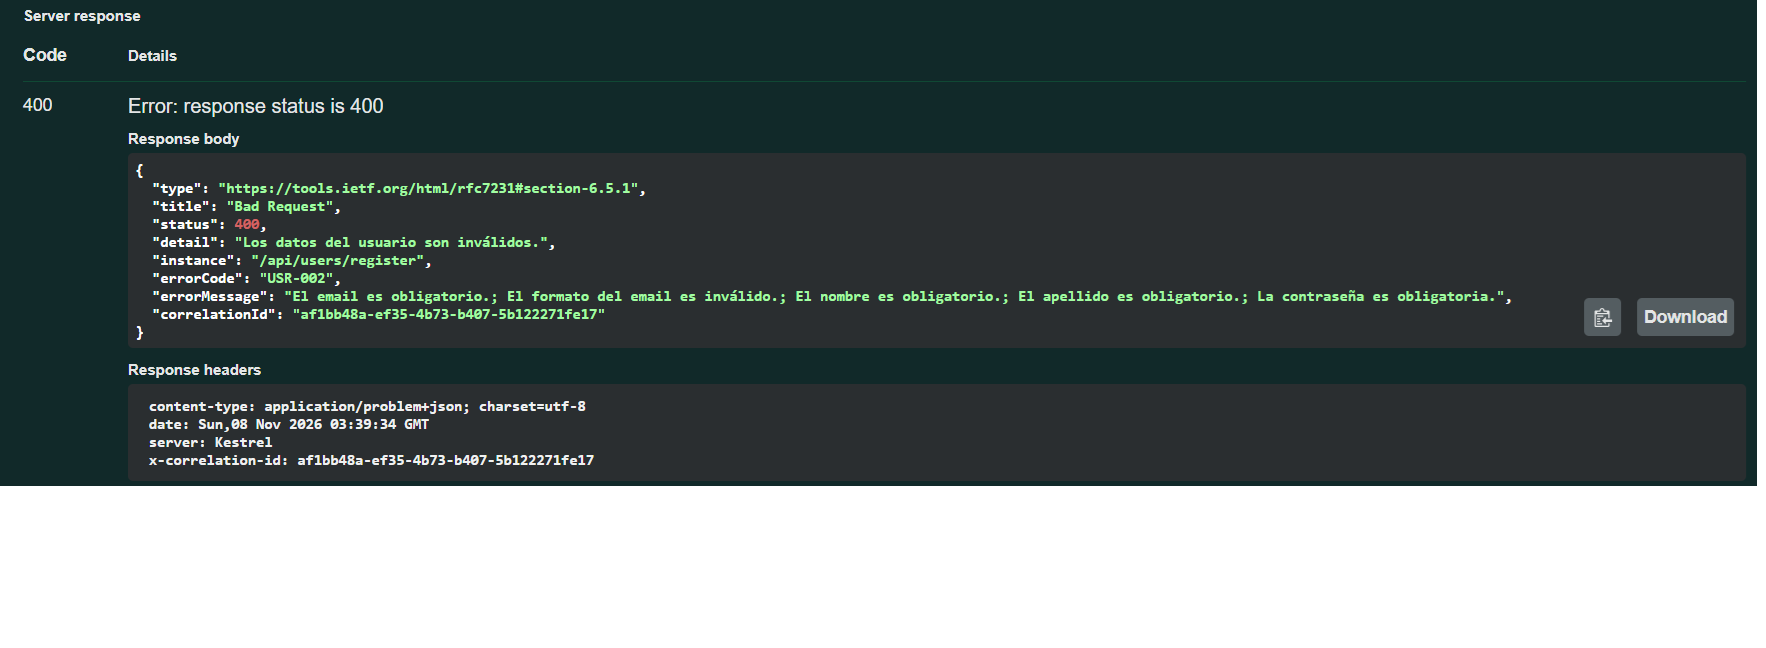
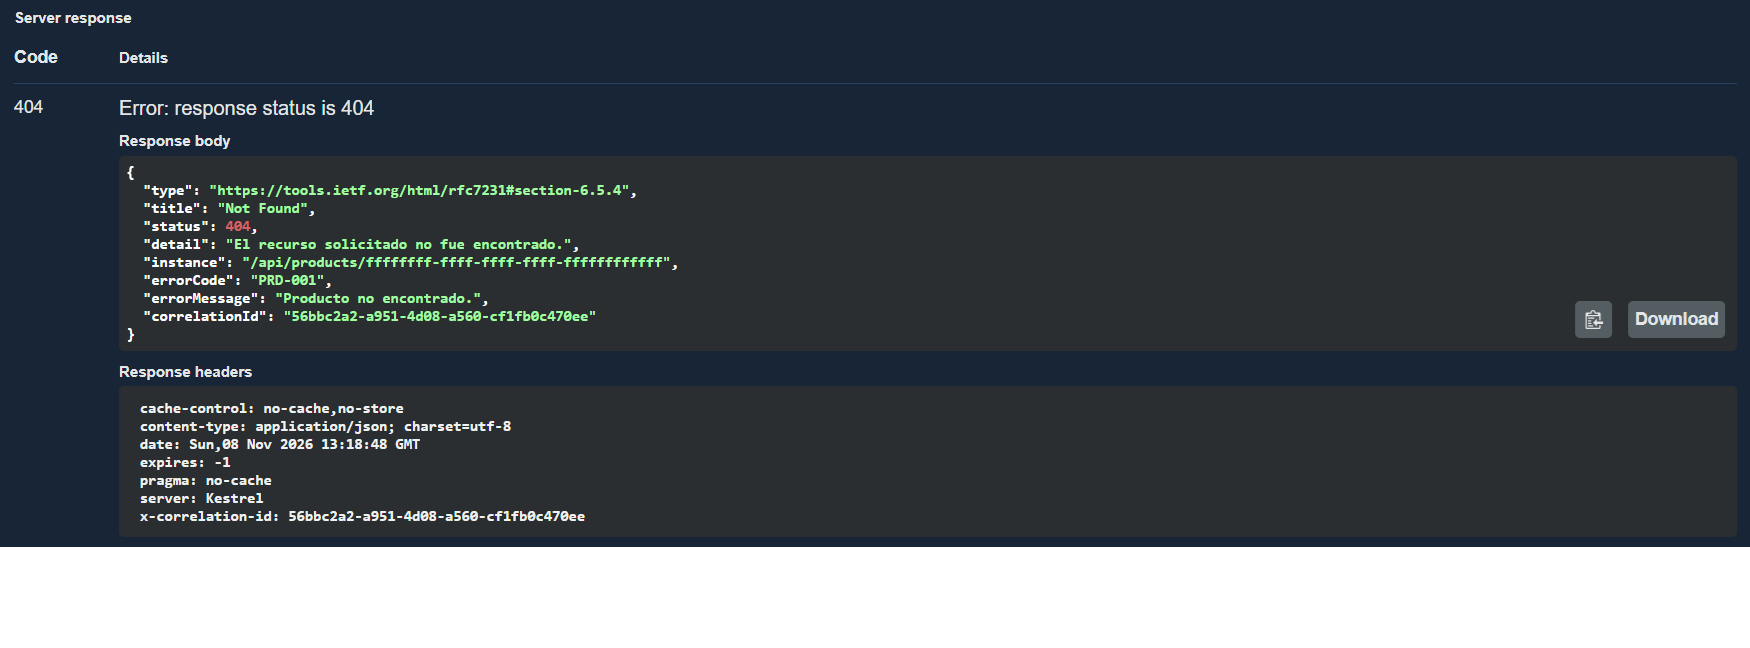
Completo códigos de error en los logs de los microservicios

Changed region(s): [[0.0, 0.0, 1.0, 0.8642], [0.0, 0.0, 0.0926, 0.0926], [0.0, 0.1235, 0.0309, 0.1852]]

diff --git a/ECommerce/Cart.API/ExceptionHandlers/BusinessRuleExceptionHandler.cs b/ECommerce/Cart.API/ExceptionHandlers/BusinessRuleExceptionHandler.cs
@@ -10,17 +10,31 @@ namespace Cart.API.ExceptionHandlers
 {
     public class BusinessRuleExceptionHandler : IExceptionHandler
     {
-        public async ValueTask<bool> TryHandleAsync(HttpContext context, Exception exception, CancellationToken cancellationToken)
+        public async ValueTask<bool> TryHandleAsync(
+            HttpContext context,
+            Exception exception,
+            CancellationToken cancellationToken)
         {
-            if (exception is not BusinessRuleException ex) return false;
+            if (exception is not BusinessRuleException ex)
+            {
+                return false;
+            }
 
-            var correlationId = context.Items["CorrelationId"]?.ToString()
-                                ?? context.Request.Headers["X-Correlation-Id"].ToString();
+            context.Items["ErrorCode"] = ex.ErrorCode;
 
-            Log.Warning("Regla de negocio violada en {Endpoint} | Código: {ErrorCode} | CorrelationId: {CorrelationId} | Detalle: {Message}",
-                context.Request.Path.Value, ex.ErrorCode, correlationId, ex.Message);
+            string correlationId =
+                context.Items["CorrelationId"]?.ToString()
+                ?? context.Request.Headers["X-Correlation-Id"].ToString();
+
+            Log.Warning(
+                "Regla de negocio violada en {Endpoint} | Código: {ErrorCode} | CorrelationId: {CorrelationId} | Detalle: {Message}",
+                context.Request.Path.Value,
+                ex.ErrorCode,
+                correlationId,
+                ex.Message);
 
             context.Response.StatusCode = 422;
+
             await context.Response.WriteAsJsonAsync(new
             {
                 type = "https://tools.ietf.org/html/rfc4918#section-11.2",

diff --git a/ECommerce/Cart.API/ExceptionHandlers/ValidationExceptionHandler.cs b/ECommerce/Cart.API/ExceptionHandlers/ValidationExceptionHandler.cs
@@ -10,17 +10,31 @@ namespace Cart.API.ExceptionHandlers
 {
     public class ValidationExceptionHandler : IExceptionHandler
     {
-        public async ValueTask<bool> TryHandleAsync(HttpContext context, Exception exception, CancellationToken cancellationToken)
+        public async ValueTask<bool> TryHandleAsync(
+            HttpContext context,
+            Exception exception,
+            CancellationToken cancellationToken)
         {
-            if (exception is not ValidationException ex) return false;
+            if (exception is not ValidationException ex)
+            {
+                return false;
+            }
 
-            var correlationId = context.Items["CorrelationId"]?.ToString()
-                                ?? context.Request.Headers["X-Correlation-Id"].ToString();
+            context.Items["ErrorCode"] = ex.ErrorCode;
 
-            Log.Warning("Error de validación en {Endpoint} | Código: {ErrorCode} | CorrelationId: {CorrelationId} | Detalle: {Message}",
-                context.Request.Path.Value, ex.ErrorCode, correlationId, ex.Message);
+            string correlationId =
+                context.Items["CorrelationId"]?.ToString()
+                ?? context.Request.Headers["X-Correlation-Id"].ToString();
+
+            Log.Warning(
+                "Error de validación en {Endpoint} | Código: {ErrorCode} | CorrelationId: {CorrelationId} | Detalle: {Message}",
+                context.Request.Path.Value,
+                ex.ErrorCode,
+                correlationId,
+                ex.Message);
 
             context.Response.StatusCode = 400;
+
             await context.Response.WriteAsJsonAsync(new
             {
                 type = "https://tools.ietf.org/html/rfc7231#section-6.5.1",

diff --git a/ECommerce/Cart.API/ExceptionHandlers/NotFoundExceptionHandler.cs b/ECommerce/Cart.API/ExceptionHandlers/NotFoundExceptionHandler.cs
@@ -10,17 +10,31 @@ namespace Cart.API.ExceptionHandlers
 {
     public class NotFoundExceptionHandler : IExceptionHandler
     {
-        public async ValueTask<bool> TryHandleAsync(HttpContext context, Exception exception, CancellationToken cancellationToken)
+        public async ValueTask<bool> TryHandleAsync(
+            HttpContext context,
+            Exception exception,
+            CancellationToken cancellationToken)
         {
-            if (exception is not NotFoundException ex) return false;
+            if (exception is not NotFoundException ex)
+            {
+                return false;
+            }
 
-            var correlationId = context.Items["CorrelationId"]?.ToString()
-                                ?? context.Request.Headers["X-Correlation-Id"].ToString();
+            context.Items["ErrorCode"] = ex.ErrorCode;
 
-            Log.Warning("Recurso no encontrado en {Endpoint} | Código: {ErrorCode} | CorrelationId: {CorrelationId} | Detalle: {Message}",
-                context.Request.Path.Value, ex.ErrorCode, correlationId, ex.Message);
+            string correlationId =
+                context.Items["CorrelationId"]?.ToString()
+                ?? context.Request.Headers["X-Correlation-Id"].ToString();
+
+            Log.Warning(
+                "Recurso no encontrado en {Endpoint} | Código: {ErrorCode} | CorrelationId: {CorrelationId} | Detalle: {Message}",
+                context.Request.Path.Value,
+                ex.ErrorCode,
+                correlationId,
+                ex.Message);
 
             context.Response.StatusCode = 404;
+
             await context.Response.WriteAsJsonAsync(new
             {
                 type = "https://tools.ietf.org/html/rfc7231#section-6.5.4",

diff --git a/ECommerce/Products.API/ExceptionHandlers/ValidationExceptionHandler.cs b/ECommerce/Products.API/ExceptionHandlers/ValidationExceptionHandler.cs
@@ -10,16 +10,30 @@ namespace Products.API.ExceptionHandlers
 {
     public class ValidationExceptionHandler : IExceptionHandler
     {
-        public async ValueTask<bool> TryHandleAsync(HttpContext context, Exception exception, CancellationToken cancellationToken)
+        public async ValueTask<bool> TryHandleAsync(
+            HttpContext context,
+            Exception exception,
+            CancellationToken cancellationToken)
         {
-            if (exception is not ValidationException ex) return false;
+            if (exception is not ValidationException ex)
+            {
+                return false;
+            }
 
-            var correlationId = context.Request.Headers["X-Correlation-Id"].ToString();
+            context.Items["ErrorCode"] = ex.ErrorCode;
 
-            Log.Warning("Error de validación en {Endpoint} | Código: {ErrorCode} | CorrelationId: {CorrelationId} | Detalle: {Message}",
-                context.Request.Path.Value, ex.ErrorCode, correlationId, ex.Message);
+            string correlationId =
+                context.Request.Headers["X-Correlation-Id"].ToString();
+
+            Log.Warning(
+                "Error de validación en {Endpoint} | Código: {ErrorCode} | CorrelationId: {CorrelationId} | Detalle: {Message}",
+                context.Request.Path.Value,
+                ex.ErrorCode,
+                correlationId,
+                ex.Message);
 
             context.Response.StatusCode = 400;
+
             await context.Response.WriteAsJsonAsync(new
             {
                 type = "https://tools.ietf.org/html/rfc7231#section-6.5.1",

diff --git a/ECommerce/Products.API/ExceptionHandlers/NotFoundExceptionHandler.cs b/ECommerce/Products.API/ExceptionHandlers/NotFoundExceptionHandler.cs
@@ -10,16 +10,30 @@ namespace Products.API.ExceptionHandlers
 {
     public class NotFoundExceptionHandler : IExceptionHandler
     {
-        public async ValueTask<bool> TryHandleAsync(HttpContext context, Exception exception, CancellationToken cancellationToken)
+        public async ValueTask<bool> TryHandleAsync(
+            HttpContext context,
+            Exception exception,
+            CancellationToken cancellationToken)
         {
-            if (exception is not NotFoundException ex) return false;
+            if (exception is not NotFoundException ex)
+            {
+                return false;
+            }
 
-            var correlationId = context.Request.Headers["X-Correlation-Id"].ToString();
+            context.Items["ErrorCode"] = ex.ErrorCode;
 
-            Log.Warning("Error de negocio en {Endpoint} | Código: {ErrorCode} | CorrelationId: {CorrelationId} | Detalle: {Message}",
-                context.Request.Path.Value, ex.ErrorCode, correlationId, ex.Message);
+            string correlationId =
+                context.Request.Headers["X-Correlation-Id"].ToString();
+
+            Log.Warning(
+                "Error de negocio en {Endpoint} | Código: {ErrorCode} | CorrelationId: {CorrelationId} | Detalle: {Message}",
+                context.Request.Path.Value,
+                ex.ErrorCode,
+                correlationId,
+                ex.Message);
 
             context.Response.StatusCode = 404;
+
             await context.Response.WriteAsJsonAsync(new
             {
                 type = "https://tools.ietf.org/html/rfc7231#section-6.5.4",

diff --git a/ECommerce/Users.API/ExceptionHandlers/UnauthorizedExceptionHandler.cs b/ECommerce/Users.API/ExceptionHandlers/UnauthorizedExceptionHandler.cs
@@ -9,14 +9,23 @@ namespace Users.API.ExceptionHandlers
 {
     public class UnauthorizedExceptionHandler : IExceptionHandler
     {
-        public async ValueTask<bool> TryHandleAsync(HttpContext context, Exception exception, CancellationToken cancellationToken)
+        public async ValueTask<bool> TryHandleAsync(
+            HttpContext context,
+            Exception exception,
+            CancellationToken cancellationToken)
         {
-            if (exception is not UnauthorizedException ex) return false;
+            if (exception is not UnauthorizedException ex)
+            {
+                return false;
+            }
 
-            
-            var correlationId = context.Request.Headers["X-Correlation-Id"].ToString();
+            context.Items["ErrorCode"] = ex.ErrorCode;
+
+            string correlationId =
+                context.Request.Headers["X-Correlation-Id"].ToString();
 
             context.Response.StatusCode = 401;
+
             await context.Response.WriteAsJsonAsync(new
             {
                 type = "https://tools.ietf.org/html/rfc7235#section-3.1",
@@ -26,7 +35,7 @@ namespace Users.API.ExceptionHandlers
                 instance = context.Request.Path.Value,
                 errorCode = ex.ErrorCode,
                 errorMessage = ex.Message,
-                correlationId = correlationId 
+                correlationId = correlationId
             }, cancellationToken: cancellationToken);
 
             return true;

diff --git a/ECommerce/Users.API/ExceptionHandlers/ForbiddenExceptionHandler.cs b/ECommerce/Users.API/ExceptionHandlers/ForbiddenExceptionHandler.cs
@@ -9,13 +9,23 @@ namespace Users.API.ExceptionHandlers
 {
     public class ForbiddenExceptionHandler : IExceptionHandler
     {
-        public async ValueTask<bool> TryHandleAsync(HttpContext context, Exception exception, CancellationToken cancellationToken)
+        public async ValueTask<bool> TryHandleAsync(
+            HttpContext context,
+            Exception exception,
+            CancellationToken cancellationToken)
         {
-            if (exception is not ForbiddenException ex) return false;
+            if (exception is not ForbiddenException ex)
+            {
+                return false;
+            }
 
-            var correlationId = context.Request.Headers["X-Correlation-Id"].ToString();
+            context.Items["ErrorCode"] = ex.ErrorCode;
+
+            string correlationId =
+                context.Request.Headers["X-Correlation-Id"].ToString();
 
             context.Response.StatusCode = 403;
+
             await context.Response.WriteAsJsonAsync(new
             {
                 type = "https://tools.ietf.org/html/rfc7231#section-6.5.3",
@@ -25,7 +35,7 @@ namespace Users.API.ExceptionHandlers
                 instance = context.Request.Path.Value,
                 errorCode = ex.ErrorCode,
                 errorMessage = ex.Message,
-                correlationId = correlationId 
+                correlationId = correlationId
             }, cancellationToken: cancellationToken);
 
             return true;

diff --git a/ECommerce/Users.API/ExceptionHandlers/BusinessRuleExceptionHandler.cs b/ECommerce/Users.API/ExceptionHandlers/BusinessRuleExceptionHandler.cs
@@ -9,13 +9,23 @@ namespace Users.API.ExceptionHandlers
 {
     public class BusinessRuleExceptionHandler : IExceptionHandler
     {
-        public async ValueTask<bool> TryHandleAsync(HttpContext context, Exception exception, CancellationToken cancellationToken)
+        public async ValueTask<bool> TryHandleAsync(
+            HttpContext context,
+            Exception exception,
+            CancellationToken cancellationToken)
         {
-            if (exception is not BusinessRuleException ex) return false;
+            if (exception is not BusinessRuleException ex)
+            {
+                return false;
+            }
 
-            var correlationId = context.Request.Headers["X-Correlation-Id"].ToString();
+            context.Items["ErrorCode"] = ex.ErrorCode;
+
+            string correlationId =
+                context.Request.Headers["X-Correlation-Id"].ToString();
 
             context.Response.StatusCode = 409;
+
             await context.Response.WriteAsJsonAsync(new
             {
                 type = "https://tools.ietf.org/html/rfc7231#section-6.5.9",

diff --git a/ECommerce/Users.API/ExceptionHandlers/ValidationExceptionHandler.cs b/ECommerce/Users.API/ExceptionHandlers/ValidationExceptionHandler.cs
@@ -9,13 +9,23 @@ namespace Users.API.ExceptionHandlers
 {
     public class ValidationExceptionHandler : IExceptionHandler
     {
-        public async ValueTask<bool> TryHandleAsync(HttpContext context, Exception exception, CancellationToken cancellationToken)
+        public async ValueTask<bool> TryHandleAsync(
+            HttpContext context,
+            Exception exception,
+            CancellationToken cancellationToken)
         {
-            if (exception is not ValidationException ex) return false;
+            if (exception is not ValidationException ex)
+            {
+                return false;
+            }
 
-            var correlationId = context.Request.Headers["X-Correlation-Id"].ToString();
+            context.Items["ErrorCode"] = ex.ErrorCode;
+
+            string correlationId =
+                context.Request.Headers["X-Correlation-Id"].ToString();
 
             context.Response.StatusCode = 400;
+
             await context.Response.WriteAsJsonAsync(new
             {
                 type = "https://tools.ietf.org/html/rfc7231#section-6.5.1",

diff --git a/ECommerce/Orders.API/ExceptionHandlers/BusinessRuleExceptionHandler.cs b/ECommerce/Orders.API/ExceptionHandlers/BusinessRuleExceptionHandler.cs
@@ -20,6 +20,8 @@ namespace Orders.API.ExceptionHandlers
                 return false;
             }
 
+            context.Items["ErrorCode"] = ex.ErrorCode;
+
             int statusCode = 409;
             string titulo = "Conflict";
             string detalle = "No se puede modificar el estado.";
@@ -36,7 +38,7 @@ namespace Orders.API.ExceptionHandlers
             }
 
             Log.Warning(
-                "Error de negocio {errorCode}: {Mensaje}",
+                "Error de negocio {ErrorCode}: {Mensaje}",
                 ex.ErrorCode,
                 ex.Message);
 

diff --git a/ECommerce/Orders.API/ExceptionHandlers/GlobalExceptionHandler.cs b/ECommerce/Orders.API/ExceptionHandlers/GlobalExceptionHandler.cs
@@ -15,9 +15,11 @@ namespace Orders.API.ExceptionHandlers
             Exception exception,
             CancellationToken cancellationToken)
         {
+            context.Items["ErrorCode"] = ErrorCodes.ORD_007;
+
             Log.Error(
                 exception,
-                "Error interno {errorCode}",
+                "Error interno {ErrorCode}",
                 ErrorCodes.ORD_007);
 
             context.Response.StatusCode = 500;

diff --git a/ECommerce/Orders.API/ExceptionHandlers/ValidationExceptionHandler.cs b/ECommerce/Orders.API/ExceptionHandlers/ValidationExceptionHandler.cs
@@ -20,8 +20,10 @@ namespace Orders.API.ExceptionHandlers
                 return false;
             }
 
+            context.Items["ErrorCode"] = ex.ErrorCode;
+
             Log.Warning(
-                "Error de validacion {errorCode}: {Mensaje}",
+                "Error de validacion {ErrorCode}: {Mensaje}",
                 ex.ErrorCode,
                 ex.Message);
 
